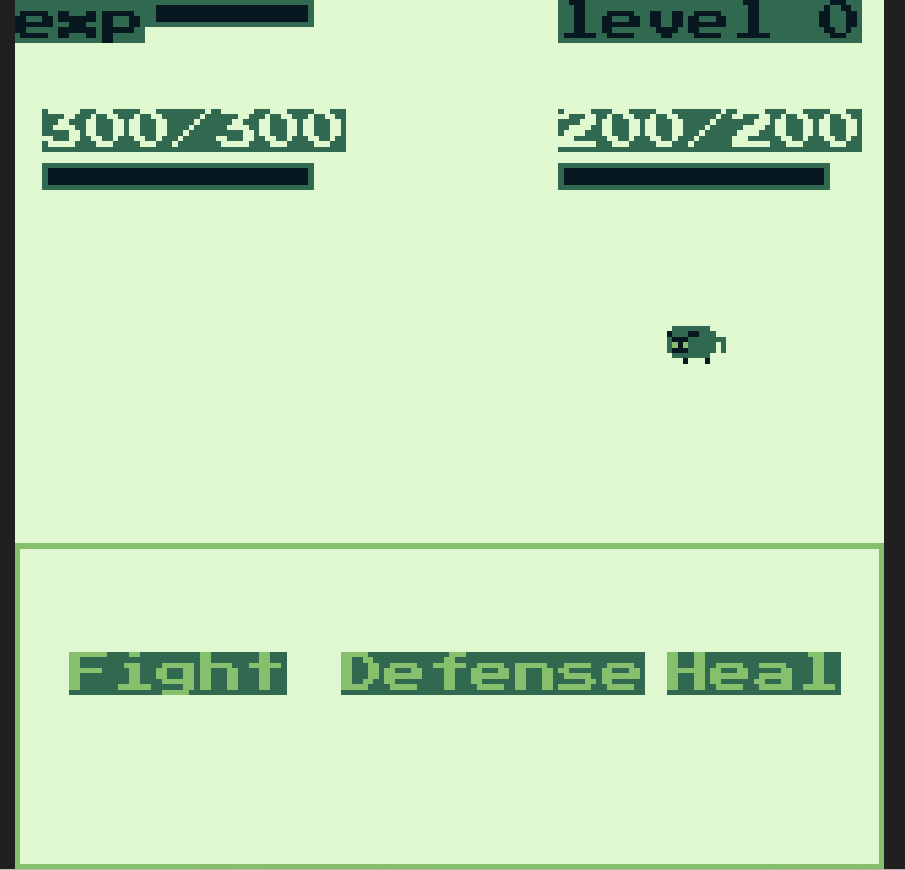
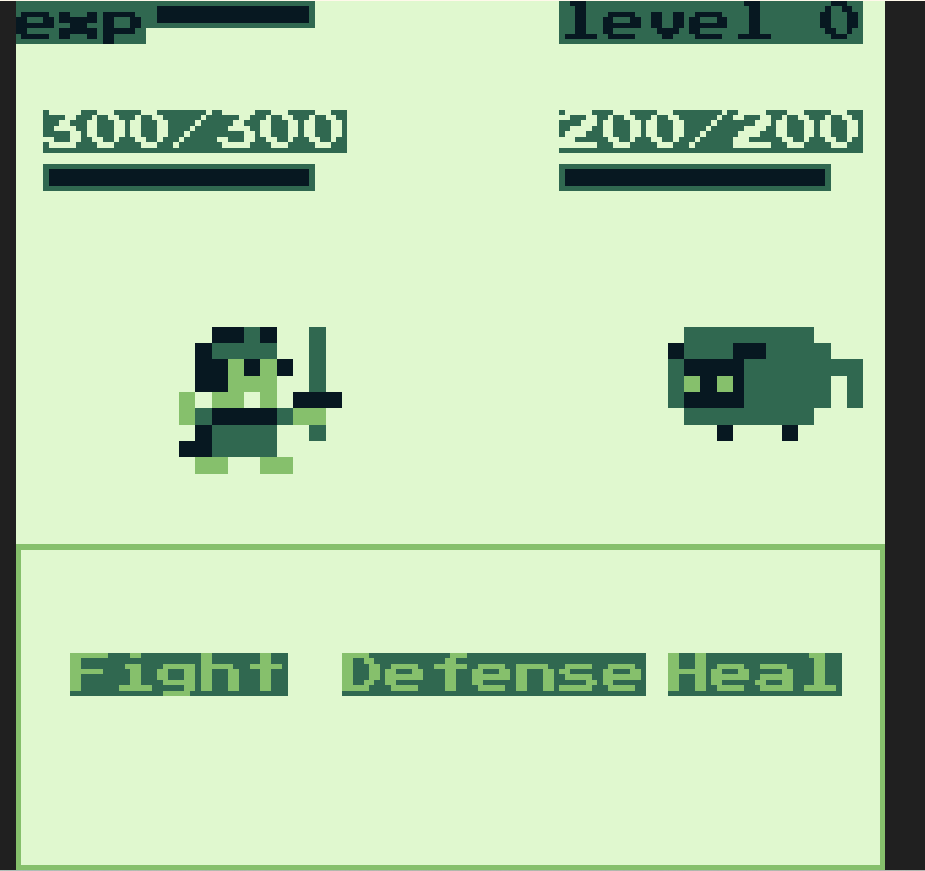
UpDungeons v0.0.3

diff --git a/teams/鱼鱼蒸了/README.md b/teams/鱼鱼蒸了/README.md
@@ -1,28 +1,34 @@
 ## 地上城与108个魔王
 
 是一款肉鸽+RPG的游戏(未完成版)   
-你需要扮演一个勇士,一路破关斩将,到最终的魔王前打败它逃离这个电子游戏....
+你需要扮演一个勇士,一路破关斩将,到最终的魔王前打败它逃离这个电子游戏....  
+<center><img src="./cover.png" alt="cover" style="zoom:35%;" /></center>
 
 ## 操作说明
 
-按x进入游戏后,目前是直接进入与咩咩的战斗(AI见敌人图鉴)
-![fight](./resource/fight.png)
-最上方为当前经验值与当前等级,尚未完善  
-经验满后会升级,升级后属性会提升,可以通过击败敌人或一些挑战获得经验  
-下方为双方血量  
+按x进入游戏后会是大地图,你是左上的小人,右下的咩咩是敌人    
+<center><img src="./resource/world.png" alt="cover" style="zoom:50%;" /></center>  
+可以通过上下左右键来移动,当移动到敌人身上时,会进入战斗界面(目前碰撞箱还没做好)     
 
+目前是直接进入与咩咩的战斗(AI见敌人图鉴)  
+<center><img src="./resource/fight.png" alt="cover" style="zoom:50%;" /></center>  
+进入战斗后最上方为当前经验值与当前等级     
+经验满后会升级,升级后属性会提升,可以通过击败敌人或一些挑战获得经验   
+下方为双方血量   
+  
 在游戏下方会有菜单,可以通过左右键来选取一个选项(选中的会浮高)  
-![菜单](./resource/menu.png)
-按下x键后执行对应的选项,同时结束自己的回合
-目前只有三种选项
-- Fight: 攻击敌人,目前是恒定10点血量
+<center><img src="./resource/menu.png" alt="cover" style="zoom:50%;" /></center>  
+按下x键后执行对应的选项,同时结束自己的回合   
+目前只有三种选项  
+- Fight: 攻击敌人,目前是恒定10点血量  
 - Heal: 治疗自己,目前是恒定恢复10点血量,且不会超过最大血量
-- Defense: 防御,让敌人攻击的伤害减半  
-当任意一方选择防御时,血条旁边会有一个小盾牌的标识  
-![shield](./resource/defence.png)
+- Defense: 防御,让敌人攻击的伤害减半    
+当任意一方选择防御时,血条旁边会有一个小盾牌的标识   
 
-当敌人血量归零后,游戏将会胜利  
-反之当自己血量归零时,游戏结束  
+<center><img src="./resource/defence.png" alt="cover" style="zoom:50%;" /></center>  
+
+当敌人血量归零后,游戏将会胜利    
+反之当自己血量归零时,游戏结束   
   
 ## 敌人图鉴
 
@@ -55,6 +61,6 @@ Konami
 - [ ] 不同的敌人属性
 - [ ] 不同的敌人技能
 - [ ] 添加人物升级与属性提升
-- [ ] 添加大世界
+- [x] 添加大世界
 - [x] 美化游戏画面(菜单栏/人物模型/血条等)
 - [ ] 加入一些神秘的小游戏,充当肉鸽中的惊喜选项
